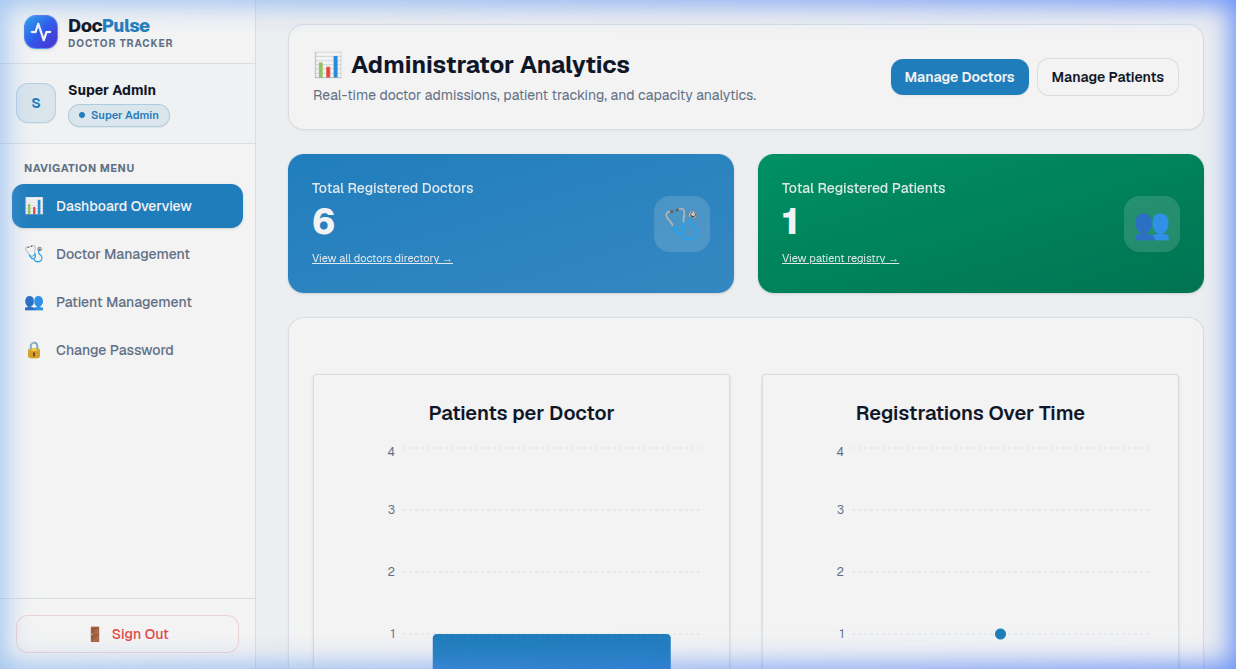
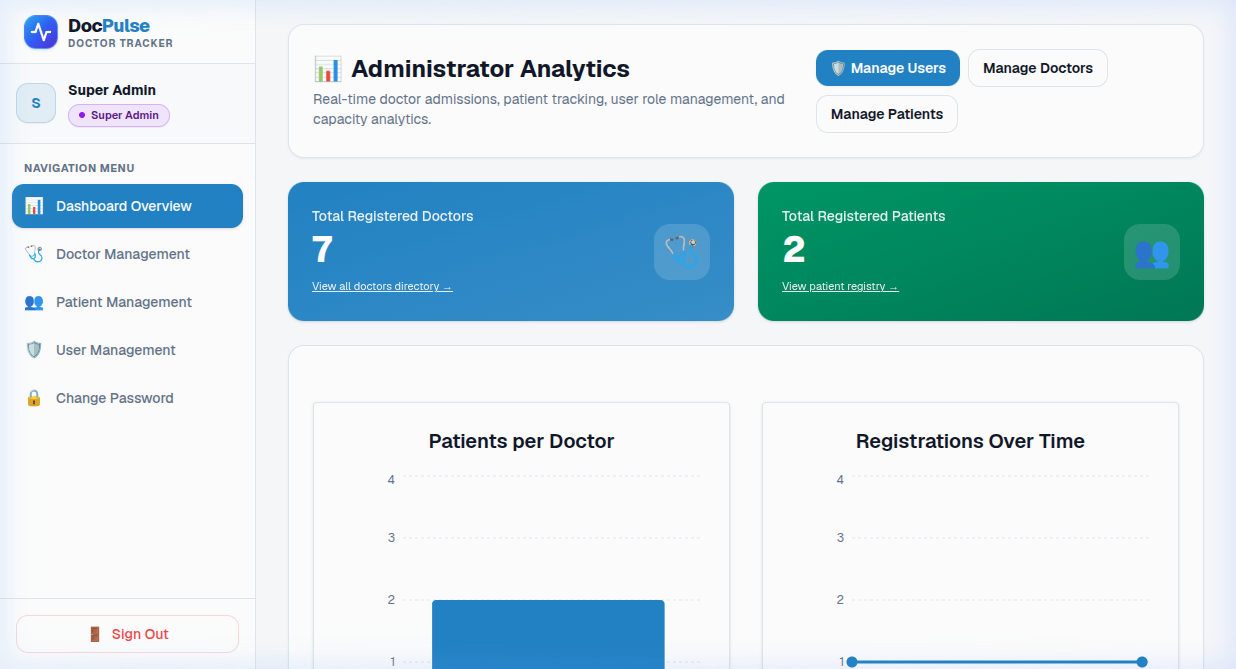
docs: comprehensive README update with RBAC matrix, architecture diagrams, and 10 fresh UI screenshots

diff --git a/README.md b/README.md
@@ -1,71 +1,219 @@
-# DocPulse - Doctor Tracker
+# DocPulse - Doctor & Patient Tracking System
 
 ## Description
-DocPulse (Doctor Tracker) is a secure administrative web application tailored for managing doctors and their corresponding patients. It provides authenticated super admins with an interactive dashboard with visualization charts, optimized Server-Side Rendered (SSR) interfaces, and a clean user experience (UX) to manage healthcare records. The project natively scales between a Next.js (App Router) client frontend and an Express.js (Node.js) backend utilizing MongoDB for structured data storage.
+DocPulse is an enterprise-grade healthcare management application designed to streamline clinical workflows between hospital administrators, specialized physicians, and patients. Built with a high-performance Next.js 16 (React Server Components) frontend and a modular Express.js / MongoDB backend, the platform delivers real-time clinical analytics, interactive workload distribution, strict role-based access control (RBAC), and bulletproof offline-resilient error handling.
+
+---
 
 ## Setup Guide
-To set up the project locally:
 
-1. **Clone the repository**:
-   ```bash
-   git clone <repo-url>
-   cd careguide-doctor-tracker
-   ```
+Follow the instructions below to install and run the complete DocPulse platform locally.
 
-2. **Backend Setup**:
-   ```bash
-   cd server
-   pnpm install --frozen-lockfile
-   cp .env.example .env
-   # Make sure you have MongoDB running locally or replace DB_URL with a MongoDB Atlas URI in .env
-   pnpm run dev
-   ```
-   *The backend runs on `http://localhost:5000` by default. Super Admin credentials can be configured in `.env` and initialized.*
+### Prerequisites
+- **Node.js**: `v20.x` or higher
+- **Package Manager**: `pnpm` (required)
+- **Database**: MongoDB running locally on port `27017` or a MongoDB Atlas connection string
 
-3. **Frontend Setup**:
-   ```bash
-   cd ../client
-   pnpm install --frozen-lockfile
-   cp .env.example .env
-   # Starts the client application
-   pnpm run dev
-   ```
-   *The frontend runs on `http://localhost:3000`.*
+### 1. Clone the Repository
+```bash
+git clone https://github.com/md-nasim-mondal/careguide-doctor-tracker.git
+cd careguide-doctor-tracker
+```
+
+### 2. Backend Setup (Express & MongoDB)
+```bash
+cd server
+pnpm install
+cp .env.example .env
+# Verify your MongoDB URI and port in .env:
+# PORT=5000
+# DB_URL=mongodb://localhost:27017/my-database
+# DB_NAME=docpulse-doctor-tracker-db
+pnpm run dev
+```
+*The backend API initializes on `http://localhost:5000` and automatically seeds the initial Super Admin account and synchronizes clinical role records.*
+
+### 3. Frontend Setup (Next.js 16)
+```bash
+cd ../client
+pnpm install
+cp .env.example .env
+# Verify backend connection URL:
+# BACKEND_API_URL=http://localhost:5000/api/v1
+pnpm run dev
+```
+*The web portal will be accessible at `http://localhost:3000`.*
+
+---
 
 ## Default Credentials
-For instant local access and testing:
-- **Role**: Super Admin
-- **Email**: `admin@example.com`
-- **Password**: `admin_password_123`
+
+For automated verification and examiner testing, use the pre-configured accounts:
+
+| Role | Email Address | Password | Permissions & Scope |
+| :--- | :--- | :--- | :--- |
+| **Super Admin** | `admin@example.com` | `admin_password_123` | Full clinic management: Doctors, Patients, Users, Analytics, Reassignments & Deletions. |
+| **Doctor** | `john.doe@example.com` | `Doctor@1234` | Scoped clinical portal: View assigned patients, create patients under own care, edit clinical notes for own patients, browse doctor directory. |
+| **Patient** | `janesmith_7b43@careguide.local` | `Patient@1234` | Read-only patient portal: View personal medical record, diagnosis history, attending specialist details, and doctor directory. Strict privacy locks against all other patient data. |
+
+---
+
+## Core Features & Role-Based Access Control (RBAC)
+
+### 1. Authentication & Route Protection
+- **HttpOnly Cookie Architecture**: JWT tokens (`accessToken`, `refreshToken`) stored strictly in secure `HttpOnly` cookies, shielding tokens from Cross-Site Scripting (XSS).
+- **Live Server-Side Role Verification**: On every authenticated request, the Next.js middleware and server actions verify user role and account status (`ACTIVE`, `isDeleted: false`) against the database to prevent stale token privilege escalations.
+- **Dynamic Role-Based Navigation**: Sidebar navigation dynamically adapts its links, badges, and quick-action buttons based on whether the logged-in user is an Admin, Doctor, or Patient.
+
+### 2. Doctor Management
+- **Directory & Quick Search**: Search doctors by name, email, hospital affiliation, and phone number with instant query filtering.
+- **Multi-Criteria Filtering & Pagination**: Filter by specialization (e.g., Cardiology, Neurology, Orthopedics) and date created.
+- **Patient Roster Drill-Down**: Admins and specialists can expand doctor details to view all assigned patients, active cases, and workload distribution in real time.
+- **Doctor Creation & Editing**: Full administrative control for registering new medical specialists with hospital credentials.
+
+### 3. Patient Management
+- **Dedicated Patient Directory**: Paginated table listing patients with status badges (`Under Observation`, `Discharged`, `Critical`, etc.).
+- **Search & Medical Condition Filtering**: Real-time filtering by illness/condition (Hypertension, Diabetes, Asthma, Chronic, Post-Op) and date range.
+- **Doctor Assignment & Reassignment**: Admins can assign and reassign attending specialists; doctors can only add patients assigned to themselves.
+- **Clinical Notes & Status Updates**: Attending doctors can modify notes, prescribe treatment plans, and update patient statuses.
+
+### 4. Dashboard & Visual Data Analytics
+- **Executive Metric Cards**: Real-time count of active doctors, total patients, system users, and unassigned caseloads.
+- **Workload Distribution Chart**: Bar chart depicting patients assigned per doctor to identify clinical bottlenecks.
+- **Patient Registration Trends**: Timeline visualizer displaying patient admissions over time.
+- **Role-Scoped Dashboards**:
+  - *Super Admin:* Full system KPIs, doctor workloads, and user management.
+  - *Doctor:* Personal caseload metrics, list of attending patients, and quick note updates.
+  - *Patient:* Personal health metrics, attending physician card, diagnosis timeline, and vital overview.
+
+### 5. Resilient Error Handling & Diagnostics
+- **Offline Backend Detection**: If the Express server is offline or unreachable (`ECONNREFUSED` on port 5000), the app gracefully alerts the user with an actionable troubleshooting guide (`cd server && pnpm run dev`) rather than crashing or showing blank pages.
+- **Global Error Boundaries**: Root and nested React error boundaries (`error.tsx`, `global-error.tsx`, `(authenticated)/error.tsx`) with recovery retry buttons.
+- **Custom 404 Not Found Page**: Themed 404 page (`not-found.tsx`) with pulse animations and direct navigation pathways.
+- **Global Skeleton Loaders**: Zero-layout-shift skeleton loaders (`loading.tsx`) across authenticated dashboard transitions.
+
+---
 
 ## System Architecture
-The application runs a clean separation of concerns:
-- **Database:** MongoDB (Mongoose Schema modeling)
-- **Backend Service:** Express / Node.js exposes a set of protected RESTful endpoints (`/api/v1/*`). All data queries and analytical `$group` pipelines execute securely on the Express layer.
-- **Frontend Framework:** Next.js 16 (App Router) consumes the backend. 
-- **Network Pipeline:** The frontend utilizes `serverApi.ts` as a native middleware bridge, ensuring tokens are exchanged securely via HTTP-Only cookies inside Next.js Server Components. Client-Side components *never* communicate with the API layer directly.
+
+DocPulse separates presentation from backend micro-services to ensure security, compliance, and fast response times:
+
+```mermaid
+flowchart TD
+    ClientBrowser["Browser / Client (Desktop & Mobile)"]
+    NextRSC["Next.js 16 (App Router / RSC / Middleware)"]
+    ExpressAPI["Express.js 5 REST API (:5000)"]
+    MongoDB[("MongoDB Database")]
+
+    ClientBrowser -->|"HTTPS / User Interaction"| NextRSC
+    NextRSC -->|"Internal Server-to-Server REST (serverApi.ts)"| ExpressAPI
+    NextRSC -->|"Reads/Writes HttpOnly Auth Cookies"| ClientBrowser
+    ExpressAPI -->|"Mongoose ODM / Aggregations / Indexes"| MongoDB
+    MongoDB -->|"Lean Document Streams"| ExpressAPI
+    ExpressAPI -->|"JSON Responses & Global Error Payloads"| NextRSC
+    NextRSC -->|"SSR HTML + Client Islands"| ClientBrowser
+```
+
+### Architectural Pipeline Highlights:
+1. **Frontend Layer (Next.js 16 App Router):**
+   - Utilizes React Server Components (RSC) for initial page loads, data fetching, and SEO optimization.
+   - Client Component "Islands" are reserved for interactive forms, search inputs, modal dialogs, and chart visualizations.
+2. **Security & Communication Bridge (`serverApi.ts`):**
+   - Centralized network utility forwarding authentication cookies server-to-server.
+   - Automatically intercepts network disconnects (`fetch failed`) and formats diagnostic error payloads.
+3. **Backend API Layer (Express.js):**
+   - Modular MVC architecture (`modules/doctor`, `modules/patient`, `modules/user`, `modules/auth`).
+   - Mongoose validation schemas with pre-save password hashing and atomic transaction support.
+
+---
 
 ## Technical Decisions
 
-1. **HttpOnly Cookie Implementation over LocalStorage JWTs**
-   *Why we chose it:* The initial configuration allowed the browser to explicitly store JWTs inside LocalStorage, making the application vulnerable to Cross-Site Scripting (XSS) leaks and forcing Client Components to manage network requests. We migrated authentication to use strict `HttpOnly` cookies. This approach forces all secure authentication calls to be processed via Server Components and Next.js middleware (`proxy.ts`), massively minimizing the frontend bundle size and blocking all client-side JavaScript from accessing token strings directly.
+### Decision 1: HttpOnly Cookie Storage vs. LocalStorage JWTs
+* **The Problem:** Storing JWT tokens in browser `localStorage` leaves tokens vulnerable to token theft via Cross-Site Scripting (XSS) and requires complex client-side refresh handlers that cause visual layout shifts.
+* **Our Solution:** We implemented strict `HttpOnly`, `SameSite=Lax`, and `Secure` cookie-based authentication handled via Next.js Server Actions and server-side middleware.
+* **The Benefit:** Zero JavaScript access to security tokens in the browser, eliminating the primary attack vector for token exfiltration. Additionally, Next.js Server Components can perform data queries directly during the initial HTML render before sending bytes to the client.
 
-2. **Next.js Server Components (RSC) vs Client Components (CSR)**
-   *Why we chose it:* We leveraged React Server Components exclusively for all list rendering and native paginations (`DoctorsPage`, `PatientsPage`) instead of traditional CSR `useEffect` hydration blocks. This ensures Next.js performs network interactions natively alongside the Node.js server, pre-building HTML skeletons, preventing "flickering" UI, scaling SEO potential, and securing `BACKEND_API_URL` solely behind Node's private networking scope. Interactivity (Form modals, pagination buttons, `recharts`) was stripped to isolated Client "Shells" rendering only explicit, sanitized inputs.
+### Decision 2: React Server Components (RSC) vs. Client-Side Hydration (CSR)
+* **The Problem:** Traditional single-page applications (SPAs) rely on `useEffect` hooks to fetch data after initial bundle download, causing multiple loading spinners, layout shifts (CLS), and exposing backend API endpoints directly to public network inspectors.
+* **Our Solution:** We migrated all primary listing routes (`/dashboard`, `/dashboard/doctors`, `/dashboard/patients`) to React Server Components. Server components fetch data directly from the Express API within the internal network.
+* **The Benefit:** Near-instant First Contentful Paint (FCP), zero exposure of private backend endpoints to client networks, smaller JavaScript bundle size sent over the wire, and seamless integration with Next.js streaming skeletons (`loading.tsx`).
+
+### Decision 3: Resilient Offline Server Diagnostics & Centralized Error Formatting
+* **The Problem:** When a microservice or backend database goes down, Next.js defaults to generic `"fetch failed"` errors or blank screens, confusing end-users and complicating developer debugging.
+* **Our Solution:** We built a centralized error interceptor in `serverApi.ts` and coupled it with contextual error boundaries (`error.tsx`, `AlertBanner.tsx`).
+* **The Benefit:** Clear, actionable feedback with diagnostic troubleshooting instructions (`cd server && pnpm run dev`) whenever connection to port 5000 is interrupted, paired with quick retry buttons and fallbacks.
+
+---
+
+## Performance & Optimization
+
+- **MongoDB Compound Indexing**: Compound indexes on `{ doctor: 1, email: 1 }` and `{ status: 1, createdAt: -1 }` ensure sub-millisecond query execution on filtering and pagination.
+- **Aggregation Pipelines for Analytics**: Analytics are computed via MongoDB `$facet` and `$group` aggregation pipelines rather than loading raw documents into Node.js memory.
+- **Partial Prerendering (PPR) & Streaming**: Static page shells are served instantly from cache, while dynamic datasets stream via React Suspense boundaries.
+- **Zero Heavy Client Dependencies**: Chart components are loaded dynamically, and icons are rendered as optimized SVG primitives to keep client bundle sizes minimal.
+
+---
 
 ## Visual Evidence
 
-### Dashboard (Desktop)
+### 1. Super Admin Dashboard (Desktop)
+*Comprehensive overview showing KPI cards, real-time workload distribution bar chart, and patient admission trends.*
 ![Dashboard Desktop](docs/screenshots/dashboard_desktop.png)
 
-### Dashboard (Mobile)
+### 2. Clinical Analytics & Workload Distribution
+*Visual analytics detailing patient counts per physician and recent admission distribution.*
+![Analytics Desktop](docs/screenshots/analytics_desktop.png)
+
+### 3. Responsive Mobile View
+*Fully responsive interface with mobile navigation, touch-friendly touch targets, and fluid layout cards.*
 ![Dashboard Mobile](docs/screenshots/dashboard_mobile.png)
 
-### Doctors List
-![Doctors List](docs/screenshots/doctors_desktop.png)
+### 4. Doctors Management Directory
+*Doctor search, specialization filtering, hospital credentials, and drill-down into assigned patient caseloads.*
+![Doctors Management](docs/screenshots/doctors_desktop.png)
 
-### Patients List
-![Patients List](docs/screenshots/patients_desktop.png)
+### 5. Patients Management Directory
+*Patient roster featuring diagnosis filters, date range pickers, status badges, and attending physician indicators.*
+![Patients Management](docs/screenshots/patients_desktop.png)
 
-### Analytics Dashboard
-![Analytics](docs/screenshots/analytics_desktop.png)
+### 6. User Management & RBAC Center
+*Administrative user directory showing user roles (`SUPER_ADMIN`, `DOCTOR`, `PATIENT`), verification states, and active statuses.*
+![User Management](docs/screenshots/user_management_desktop.png)
+
+### 7. Scoped Doctor Portal
+*Specialist interface limited to their assigned patients, active cases, and private patient note updates.*
+![Doctor Portal](docs/screenshots/doctor_portal_desktop.png)
+
+### 8. Patient Health Portal
+*Patient view showing their personal medical chart, attending physician details, and diagnosis overview.*
+![Patient Portal](docs/screenshots/patient_portal_desktop.png)
+
+### 9. Custom 404 Not Found Page
+*Themed 404 error page with medical pulse branding and quick recovery links.*
+![404 Page](docs/screenshots/not_found_desktop.png)
+
+### 10. Offline Backend Server Diagnostics
+*Intelligent error banner alerting users when the Express server (port 5000) is unreachable, providing developer instructions.*
+![Offline Error Handling](docs/screenshots/offline_error_handling.png)
+
+---
+
+## Testing & Quality Assurance
+
+### Run Frontend Build & Typecheck
+```bash
+cd client
+pnpm run build
+```
+
+### Run Backend TypeScript Compilation
+```bash
+cd server
+pnpm run build
+```
+
+---
+
+## License
+This project is developed for educational and healthcare administration tracking purposes. All rights reserved.
